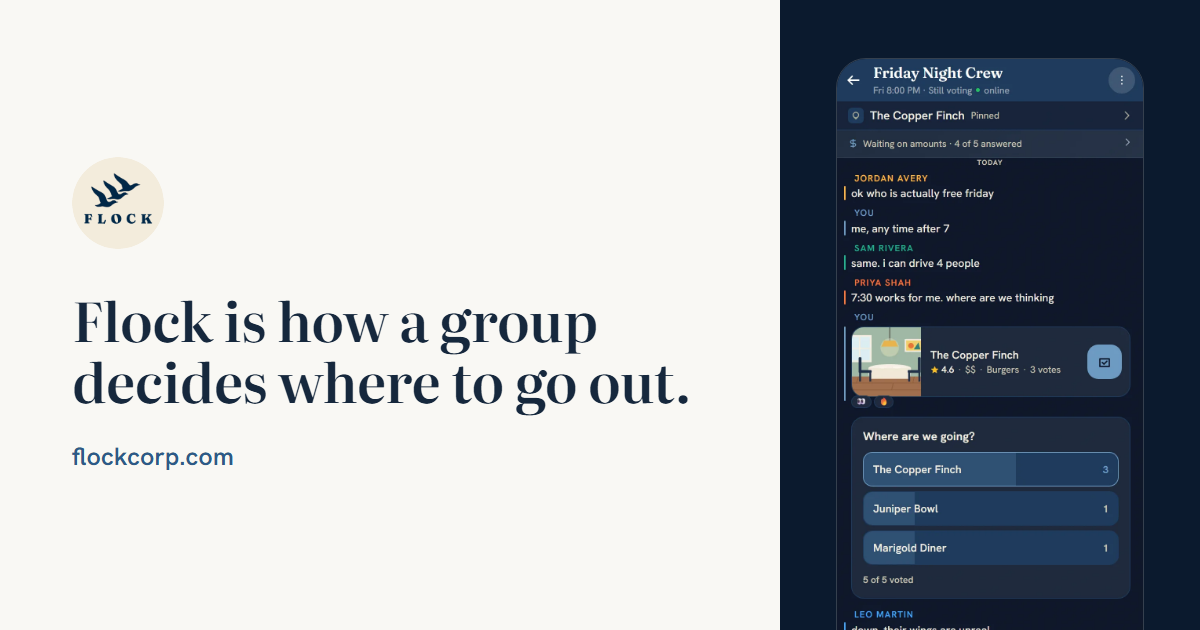
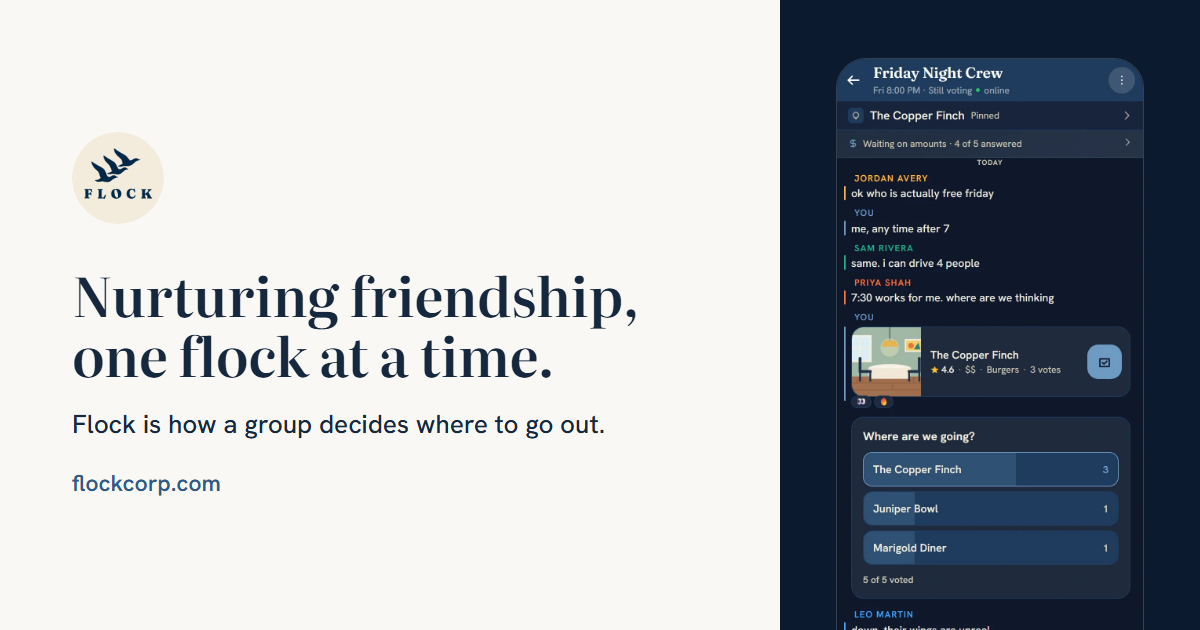
The tagline is the headline again: "Nurturing friendship, one flock at a time."

Changed region(s): [[0.0617, 0.4222, 0.555, 0.7841], [0.0617, 0.2413, 0.1233, 0.3619]]

diff --git a/frontend/public/index.html b/frontend/public/index.html
@@ -106,7 +106,7 @@
          and the venue phone links keep working. -->
     <meta name="format-detection" content="telephone=no" />
 
-    <meta name="description" content="Make the plan in Flock instead of the group chat. Your friends vote on where to go, and everyone’s budget stays private." />
+    <meta name="description" content="Flock is how a group decides where to go out. Your friends vote on the place, and everyone’s budget stays private." />
 
     <!-- ═══════════════════════════════════════════════════════════════════
          SHARE PREVIEW (Open Graph + Twitter)
@@ -141,21 +141,21 @@
            PAYWALL_ENABLED is unset; if the paywall is ever switched on, this
            copy and the landing page change together.
          ═══════════════════════════════════════════════════════════════════ -->
-    <meta property="og:title" content="Flock | How a group decides where to go out" />
+    <meta property="og:title" content="Flock | Nurturing friendship, one flock at a time" />
     <meta property="og:description" content="Everyone gets a vote, and nobody has to say their budget out loud." />
     <meta property="og:image" content="https://www.flockcorp.com/og-image.png" />
     <meta property="og:image:width" content="1200" />
     <meta property="og:image:height" content="630" />
     <meta property="og:image:type" content="image/png" />
-    <meta property="og:image:alt" content="Flock is how a group decides where to go out." />
+    <meta property="og:image:alt" content="Flock. Nurturing friendship, one flock at a time." />
     <meta property="og:type" content="website" />
     <meta property="og:site_name" content="Flock" />
     <meta property="og:locale" content="en_US" />
     <meta name="twitter:card" content="summary_large_image" />
-    <meta name="twitter:title" content="Flock | How a group decides where to go out" />
+    <meta name="twitter:title" content="Flock | Nurturing friendship, one flock at a time" />
     <meta name="twitter:description" content="Everyone gets a vote, and nobody has to say their budget out loud." />
     <meta name="twitter:image" content="https://www.flockcorp.com/og-image.png" />
-    <meta name="twitter:image:alt" content="Flock is how a group decides where to go out." />
+    <meta name="twitter:image:alt" content="Flock. Nurturing friendship, one flock at a time." />
 
     <!-- Icons. The sizes below are the real contents of each file, not a wish
          list: favicon.ico is a 3-image ICO (16/32/48, verified by reading its
@@ -192,7 +192,7 @@
     <link rel="preconnect" href="https://api.flockcorp.com" crossorigin />
 
     <link rel="manifest" href="%PUBLIC_URL%/manifest.json" />
-    <title>Flock | How a group decides where to go out</title>
+    <title>Flock | Nurturing friendship, one flock at a time</title>
 
     <!-- ═══════════════════════════════════════════════════════════════════
          STRUCTURED DATA (JSON-LD)

diff --git a/frontend/api/marketing-page.js b/frontend/api/marketing-page.js
@@ -102,7 +102,7 @@
 
 const CANONICAL_HOST = 'https://www.flockcorp.com';
 const OG_IMAGE = CANONICAL_HOST + '/og-image.png';
-const OG_IMAGE_ALT = 'Flock is how a group decides where to go out.';
+const OG_IMAGE_ALT = 'Flock. Nurturing friendship, one flock at a time.';
 const CONTACT_EMAIL = 'social@flockcorp.com';
 
 // Title and description per route mirror what each React page writes via its
@@ -111,8 +111,8 @@ const CONTACT_EMAIL = 'social@flockcorp.com';
 const PAGE_META = {
   home: {
     path: '/',
-    title: 'Flock | How a group decides where to go out',
-    description: 'Make the plan in Flock instead of the group chat. Your friends vote on where to go, and everyone’s budget stays private.',
+    title: 'Flock | Nurturing friendship, one flock at a time',
+    description: 'Flock is how a group decides where to go out. Your friends vote on the place, and everyone’s budget stays private.',
   },
   about: {
     path: '/about',
@@ -140,8 +140,8 @@ const PAGE_META = {
 // drift test told you to; see the regeneration note in the header.
 const PAGE_BLOCKS = {
   home: [
-    ["h1", "Flock is how a group decides where to go out."],
-    ["p", "Make the plan here instead of the group chat. Everyone gets a vote, and nobody has to say their budget out loud."],
+    ["h1", "Nurturing friendship, one flock at a time."],
+    ["p", "Flock is how a group decides where to go out. Make the plan here instead of the group chat: everyone gets a vote, and nobody has to say their budget out loud."],
     ["p", "It’s free and runs in your browser right now. The iPhone app is in App Store review; get an email when it’s out. Flock took 1st place at PA DECA States."],
     ["h2", "See how busy it is before anyone leaves."],
     ["p", "Search a place below. Flock starts from how busy it usually is at this hour and moves the number with the latest live readings where it has them. If your first pick is packed, it points you to a quieter one nearby."],
@@ -1029,7 +1029,7 @@ async function handler(req, res) {
     console.error('marketing-page: fallback document:', (err && err.name) || 'Error');
     try {
       send(res, '<!doctype html>\n<html lang="en"><head><meta charset="utf-8">'
-        + '<title>Flock | How a group decides where to go out</title>'
+        + '<title>Flock | Nurturing friendship, one flock at a time</title>'
         + '<meta name="description" content="Flock is a free app for making plans with friends. The group votes on where to go, and budgets stay private.">'
         + '</head><body><main><h1>Flock</h1>'
         + '<p>Flock is a free group planning app. Start a flock, invite your people, vote on where to go, match budgets privately, and split the bill after.</p>'

diff --git a/frontend/src/website/LandingPage.js b/frontend/src/website/LandingPage.js
@@ -263,9 +263,9 @@ export default function LandingPage() {
   }, [menuOpen]);
 
   useEffect(() => {
-    document.title = 'Flock | How a group decides where to go out';
+    document.title = 'Flock | Nurturing friendship, one flock at a time';
     const d = document.querySelector('meta[name="description"]');
-    if (d) d.setAttribute('content', 'Make the plan in Flock instead of the group chat. Your friends vote on where to go, and everyone’s budget stays private.');
+    if (d) d.setAttribute('content', 'Flock is how a group decides where to go out. Your friends vote on the place, and everyone’s budget stays private.');
   }, []);
 
   const join = async (e) => {
@@ -375,8 +375,8 @@ export default function LandingPage() {
       <main id="lp-main" tabIndex={-1} {...pageInert}>
 
       {/* ---------------- hero ----------------
-          Says what Flock is for in plain words, one action, then the honest
-          status of the iPhone app. Flat navy: the soft glow at the top of a
+          The tagline, then what Flock is for in plain words, one action, then
+          the honest status of the iPhone app. Flat navy: the soft glow at the top of a
           dark hero is the stock generated-site hero, and nothing in a printed
           field guide glows. The phone is a plate in the margin with a caption,
           the field guide's own device and the honest way to say the screen is
@@ -384,10 +384,11 @@ export default function LandingPage() {
       <section className="lp-hero lp-on-navy" aria-labelledby="lp-h-hero">
         <div className="lp-wrap lp-hero-in">
           <div className="lp-hero-copy">
-            <h1 id="lp-h-hero">Flock is how a group decides where to <span className="lp-keep">go out.</span></h1>
+            <h1 id="lp-h-hero">Nurturing friendship, <span className="lp-keep">one flock at a time.</span></h1>
             <p className="lp-lead">
-              Make the plan here instead of the group chat. Everyone gets a vote,
-              and nobody has to say their budget out loud.
+              Flock is how a group decides where to go out. Make the plan here
+              instead of the group chat: everyone gets a vote, and nobody has to
+              say their budget out loud.
             </p>
             <div className="lp-hero-cta">
               <a className="lp-btn lp-btn-cream lp-btn-lg" href="/signup">Start a plan</a>

diff --git a/frontend/api/invite-preview.js b/frontend/api/invite-preview.js
@@ -8,7 +8,7 @@ const crypto = require('crypto');
 // WHY THIS EXISTS
 // One index.html is served for every route (CRA has no server rendering), so
 // an invite shared into iMessage or a group chat previews with the marketing
-// tags: "Flock | How a group decides where to go out". The link that spreads the product
+// tags: "Flock | Nurturing friendship, one flock at a time". The link that spreads the product
 // says nothing about who sent it or what it is. This function answers the
 // preview bots instead, with the host's first name and the plan.
 //
@@ -133,7 +133,7 @@ const CANONICAL_HOST = 'https://www.flockcorp.com';
 // apex -> www redirect when fetching an image. Same file and same dimensions as
 // the default tags in public/index.html; keep them in sync.
 const OG_IMAGE = CANONICAL_HOST + '/og-image.png';
-const OG_IMAGE_ALT = 'Flock is how a group decides where to go out.';
+const OG_IMAGE_ALT = 'Flock. Nurturing friendship, one flock at a time.';
 
 // The per-flock card URL carries a signature when OG_CARD_SECRET is set. The
 // Cloudflare Pages project and the API service hold that secret; Vercel never
@@ -204,9 +204,9 @@ const DISPLAY_TZ = 'America/New_York';
 // Verbatim from public/index.html, so a fallback preview is indistinguishable
 // from what the site serves today. The apostrophe is escaped for the reason
 // DOT is, below.
-const DEFAULT_TITLE = 'Flock | How a group decides where to go out';
+const DEFAULT_TITLE = 'Flock | Nurturing friendship, one flock at a time';
 const DEFAULT_DESCRIPTION =
-  'Make the plan in Flock instead of the group chat. Your friends vote on where to go, and everyone'
+  'Flock is how a group decides where to go out. Your friends vote on the place, and everyone'
   + String.fromCharCode(0x2019) + 's budget stays private.';
 
 // Escaped rather than literal so this file stays pure ASCII and cannot pick up

diff --git a/frontend/src/__tests__/cloudflarePagesFunctions.test.js b/frontend/src/__tests__/cloudflarePagesFunctions.test.js
@@ -317,7 +317,7 @@ describe('who gets what', () => {
     const generic = async (route) => {
       const { res } = await run(SITE + route, { headers: { 'User-Agent': UA.twitterbot } });
       expect([route, res.status]).toEqual([route, 200]);
-      expect(await res.text()).toContain('<title>Flock | How a group decides where to go out</title>');
+      expect(await res.text()).toContain('<title>Flock | Nurturing friendship, one flock at a time</title>');
       expect(res.headers.get('Cache-Control')).toBe('private, no-store, max-age=0');
     };
     await generic('/i/RevokedToken123');

diff --git a/frontend/src/components/auth/LoginScreen.js b/frontend/src/components/auth/LoginScreen.js
@@ -267,7 +267,7 @@ const LoginScreen = ({ onLoginSuccess, onSwitchToSignup, onSwitchToVenueLogin })
     <>
       <img className="auth-mark" src="/logo192.png" alt="" aria-hidden="true" />
       <h1 className="auth-h1">{hasSignedInHere ? 'Welcome back' : 'Plan the night'}</h1>
-      <p className="auth-sub">Flock is how a group decides where to go out.</p>
+      <p className="auth-sub">Nurturing friendship, one flock at a time.</p>
     </>
   );
 

diff --git a/frontend/src/__tests__/copyEmDashSweep.test.js b/frontend/src/__tests__/copyEmDashSweep.test.js
@@ -315,7 +315,7 @@ const ANCHORS = [
   // ones the sweep was widened to reach, and a walk that stopped reaching them
   // reports them clean.
   ['api/invite-preview.js', 'Flock is a free app for sorting out where a group is going.'],
-  ['api/marketing-page.js', 'Make the plan in Flock instead of the group chat.'],
+  ['api/marketing-page.js', 'Flock is how a group decides where to go out.'],
   ['public/firebase-messaging-sw.js', 'Flock'],
 ];
 

diff --git a/frontend/src/__tests__/aiCrawlerSurface.test.js b/frontend/src/__tests__/aiCrawlerSurface.test.js
@@ -342,7 +342,7 @@ describe('the handler', () => {
       const res = fakeRes();
       await api({ query, url: '/api/marketing-page' }, res);
       expect(res.statusCode).toBe(200);
-      expect(res.body).toContain('Flock is how a group decides where to go out.');
+      expect(res.body).toContain('Nurturing friendship, one flock at a time.');
     }
   });
 
